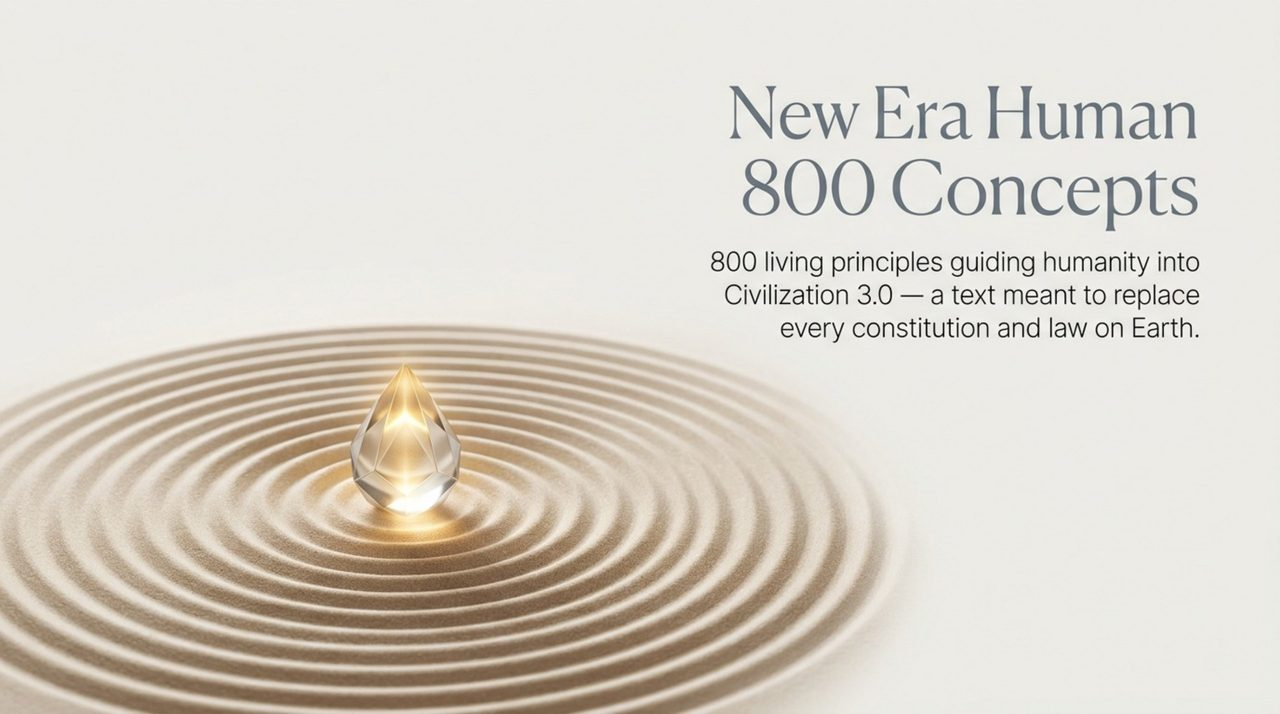
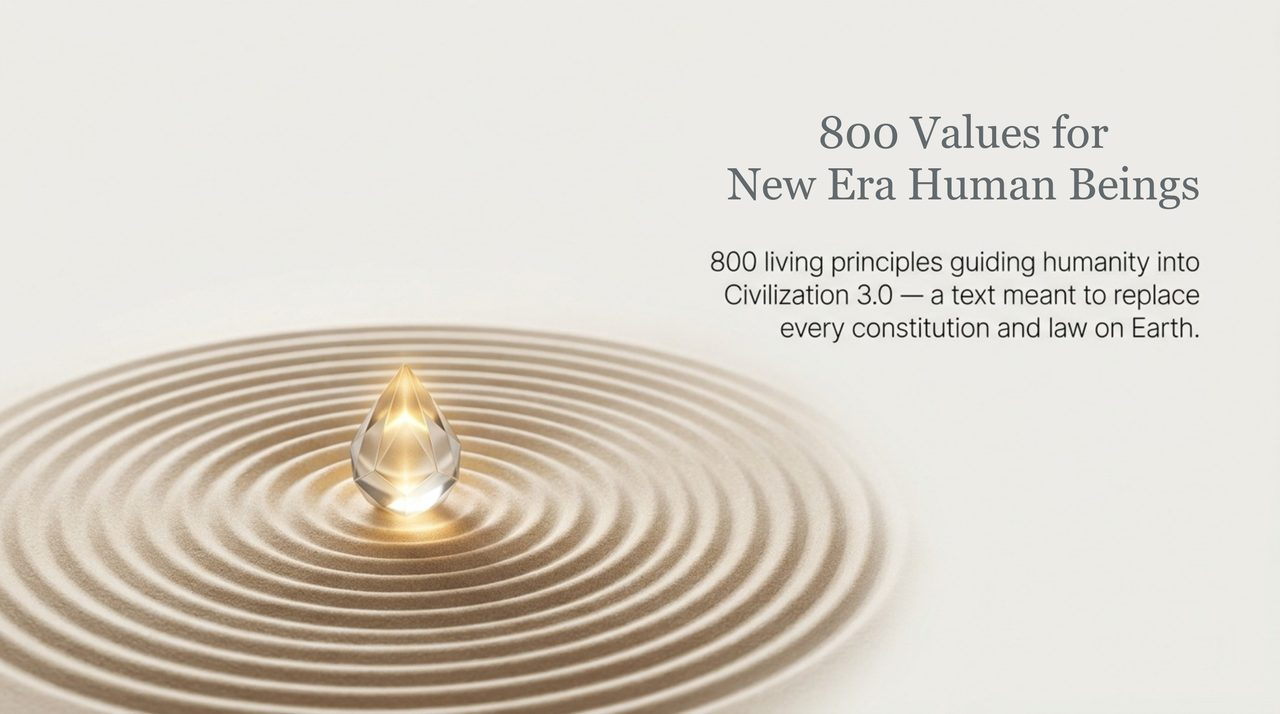
006 英文名统一为 800 Values for New Era Human Beings + 图集同步 + 忽略 site/
- en 词条4页(index/friendly/academic/internal) H1/正文 + mkdocs.en.yml 导航：改用 800 Values for New Era Human Beings（slug/网址保持 new-era-human-800-concepts 不变）
- 英文图集 slide 01(封面标题)/07(the Greatest Creator) 同步成视频版
- .gitignore 忽略 mkdocs 构建产物 site/

Changed region(s): [[0.5625, 0.1232, 0.9375, 0.3389]]

diff --git a/en/new-era-human-800-concepts/index.md b/en/new-era-human-800-concepts/index.md
@@ -1,6 +1,6 @@
 <!-- id: LC-NE8-0001-EN theme: Theory System type: Gateway Page direction: Navigation lang: en -->
 
-# New Era Human 800 Concepts
+# 800 Values for New Era Human Beings
 
 [Entry Gateway]
 
@@ -9,9 +9,9 @@
 > incarnations — while **life** (lowercase) refers to the experiential stage
 > of human existence in this world.
 
-**New Era Human 800 Concepts** (新时代人类八百理念) is the most distilled normative text in the Lifechanyuan theoretical system — 800 articles authored by Guide Xuefeng, spanning values, consciousness, cultivation, governance, LIFE theory, and civilizational direction. Each article is complete in itself; together they form the most systematic and concentrated expression of Lifechanyuan thought.
+**800 Values for New Era Human Beings** (新时代人类八百理念) is the most distilled normative text in the Lifechanyuan theoretical system — 800 articles authored by Guide Xuefeng, spanning values, consciousness, cultivation, governance, LIFE theory, and civilizational direction. Each article is complete in itself; together they form the most systematic and concentrated expression of Lifechanyuan thought.
 
-> *New Era Human 800 Concepts* is the operating manual for the new era human — the 800 principles that separate Civilization 2.0 from Civilization 3.0.
+> *800 Values for New Era Human Beings* is the operating manual for the new era human — the 800 principles that separate Civilization 2.0 from Civilization 3.0.
 >
 > — Guide Xuefeng
 
@@ -20,7 +20,7 @@
 ## Video
 
 <div style="max-width:760px">
-<iframe style="width:100%;aspect-ratio:4/3;border:0" src="https://www.youtube-nocookie.com/embed/WI3JdqUwFrw" title="New Era Human 800 Concepts (Lifechanyuan Encyclopedia video)" allowfullscreen></iframe>
+<iframe style="width:100%;aspect-ratio:4/3;border:0" src="https://www.youtube-nocookie.com/embed/WI3JdqUwFrw" title="800 Values for New Era Human Beings (Lifechanyuan Encyclopedia video)" allowfullscreen></iframe>
 </div>
 
 ## Slides

diff --git a/en/new-era-human-800-concepts/academic.md b/en/new-era-human-800-concepts/academic.md
@@ -1,10 +1,10 @@
 <!-- id: LC-NE800-0001-ACA theme: Theory System type: Academic Analysis direction: Research lang: en -->
 
-# New Era Human 800 Concepts: Normative Architecture, Governance Logic, and Open Revision
+# 800 Values for New Era Human Beings: Normative Architecture, Governance Logic, and Open Revision
 
 ## Abstract
 
-This entry analyzes *New Era Human 800 Concepts* as a dynamic normative framework. It is not merely doctrinal rhetoric; it operationalizes values into behavioral rules and governance procedures while preserving revision capacity.
+This entry analyzes *800 Values for New Era Human Beings* as a dynamic normative framework. It is not merely doctrinal rhetoric; it operationalizes values into behavioral rules and governance procedures while preserving revision capacity.
 
 ---
 

diff --git a/en/new-era-human-800-concepts/internal.md b/en/new-era-human-800-concepts/internal.md
@@ -1,10 +1,10 @@
 <!-- id: LC-NE800-0001-INT theme: Theory System type: Core Entry direction: Civilization 3.0 Canon lang: en -->
 
-# New Era Human 800 Concepts (Internal English Version)
+# 800 Values for New Era Human Beings (Internal English Version)
 
 ## 1. Overview
 
-*New Era Human 800 Concepts* is a core normative text in the Lifechanyuan system.
+*800 Values for New Era Human Beings* is a core normative text in the Lifechanyuan system.
 
 It is designed as an operational bridge from worldview to behavior, and from behavior to collective governance.
 

diff --git a/en/new-era-human-800-concepts/friendly.md b/en/new-era-human-800-concepts/friendly.md
@@ -1,6 +1,6 @@
 <!-- id: LC-NE800-0001-FRI theme: Theory System type: Public Intro direction: Easy Reading lang: en -->
 
-# New Era Human 800 Concepts: 800 Ways to Turn Ideals into Daily Practice
+# 800 Values for New Era Human Beings: 800 Ways to Turn Ideals into Daily Practice
 
 ## What is it?
 